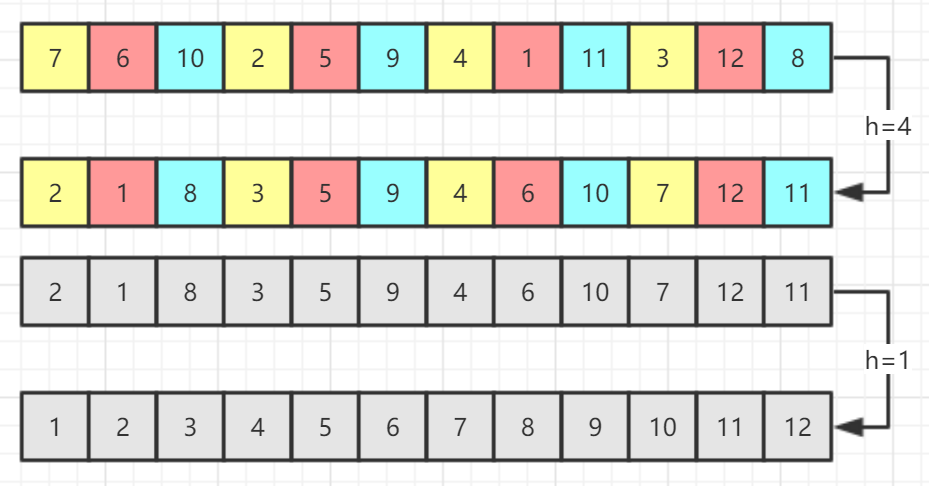
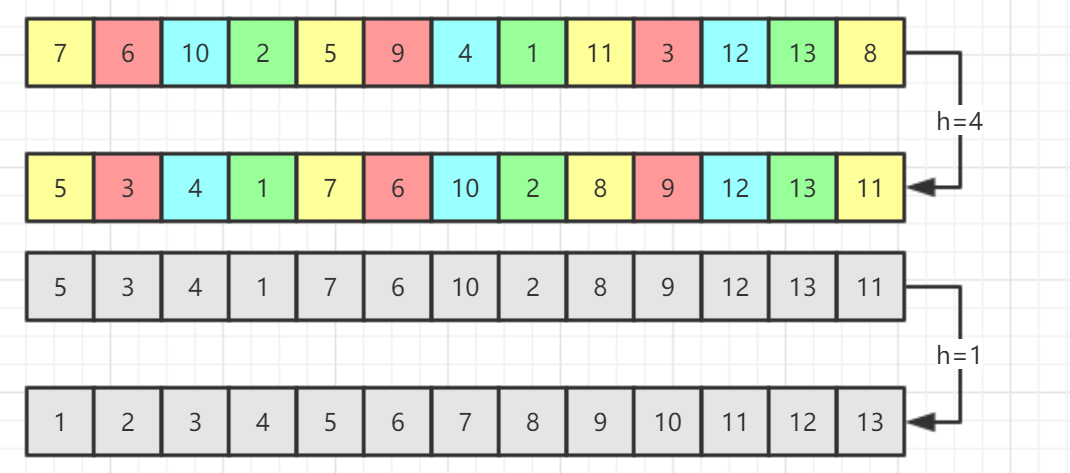
算法

diff --git a/notes/常用算法.md b/notes/常用算法.md
@@ -1,10 +1,13 @@
 # 算法
 
 <!-- GFM-TOC -->
-* [一、排序](#一排序)
+* [一、排序](#排序)
+    * [冒泡排序](#冒泡排序)
     * [选择排序](#选择排序)
 	* [插入排序](#插入排序)
-    * [冒泡排序](#冒泡排序)
+	* [希尔排序](#希尔排序)
+	* [归并排序](#归并排序)
+    
     
 
 
@@ -25,6 +28,50 @@ public class Sort {
     ... sorting functions ...
 }
 ```
+
+## 冒泡排序
+冒泡排序每次从左到右比较数组中相邻的元素，如果相邻元素的顺序错误，则交换相邻元素，
+<br/>
+每趟过后都会使得最大的元素被交换到剩余元素的末位上。
+
+排序过程：
+
+第1趟：遍历整个数组，每次判断相邻元素，顺序错误则交换，则第n-1位置排序完成；
+<br/>
+第2趟：遍历剩下0~n-2数组，每次判断相邻元素，顺序错误则交换，则第n-2,n-1位置排序完成；
+<br/>
+......
+<br/>
+第n-1趟：遍历剩下0,1位置的元素，顺序错误则交换，则数组排序完成；
+
+代码实现：
+<br/>
+```java
+//冒泡排序
+public void bubbleSort(int[] nums) {
+    int N = nums.length;
+    boolean sorted = false;
+    for (int i = N - 1; i > 0 && !sorted; i--) {
+        sorted = true;
+        for (int j = 0; j < i; j++)
+            if (nums[j] > nums[j + 1]) {
+                swap(nums, j, j + 1);
+                sorted = false;
+                System.out.println(Arrays.toString(nums));
+            }
+    }
+}
+```
+
+时间复杂度：
+- 整个排序**最好**需要 **n-1次比较** 和 **0次交换** ，时间复杂度为 **O(n)**，此时数组有序；
+- 整个排序**平均**需要 **n<sup>2</sup>/4次比较** 和 **n<sup>2</sup>/4次交换** ，时间复杂度为 **O(n<sup>2</sup>)**；
+- 整个排序**最坏**需要 **n<sup>2</sup>/2次比较** 和 **n<sup>2</sup>/2次交换** ，时间复杂度为 **O(n<sup>2</sup>)**，此时数组为倒序。
+
+特点：
+- 如果某一趟发现数组已经排序完成，则会及时退出避免无效操作。
+- 交换过程中，值相同的元素的不会进行交换，因此**稳定**。
+- 排序过程中需要辅助变量，空间复杂度为 **O(1)**。
 
 
 ## 选择排序
@@ -87,11 +134,11 @@ public void selectSort(int[] nums) {
 //插入排序
 public void insertionSort(int[] nums) {
     int N = nums.length;
-    for (int i = 1; i < N; i++) {
-        for (int j = i; j > 0 && nums[j-1] > nums[j]; j--)
+    for (int i = 1; i < N; i++)
+        for (int j = i; j > 0 && nums[j-1] > nums[j]; j--) {
             swap(nums, j, j - 1);
-        System.out.println(Arrays.toString(nums));
-    }
+            System.out.println(Arrays.toString(nums));
+        }
 }
 ```
 
@@ -106,51 +153,6 @@ public void insertionSort(int[] nums) {
 - 排序过程中需要辅助变量，空间复杂度为 **O(1)**。
 
 
-## 冒泡排序
-冒泡排序每次从左到右比较数组中相邻的元素，如果相邻元素的顺序错误，则交换相邻元素，
-<br/>
-每趟过后都会使得最大的元素被交换到剩余元素的末位上。
-
-排序过程：
-
-第1趟：遍历整个数组，每次判断相邻元素，顺序错误则交换，则第n-1位置排序完成；
-<br/>
-第2趟：遍历剩下0~n-2数组，每次判断相邻元素，顺序错误则交换，则第n-2,n-1位置排序完成；
-<br/>
-......
-<br/>
-第n-1趟：遍历剩下0,1位置的元素，顺序错误则交换，则数组排序完成；
-
-代码实现：
-<br/>
-```java
-//冒泡排序
-public void bubbleSort(int[] nums) {
-    int N = nums.length;
-    boolean sorted = false;
-    for (int i = N - 1; i > 0 && !sorted; i--) {
-        sorted = true;
-        for (int j = 0; j < i; j++)
-            if (nums[j] > nums[j + 1]) {
-                swap(nums, j, j + 1);
-                sorted = false;
-            }
-        System.out.println(Arrays.toString(nums));
-    }
-}
-```
-
-时间复杂度：
-- 整个排序**最好**需要 **n-1次比较** 和 **0次交换** ，时间复杂度为 **O(n)**，此时数组有序；
-- 整个排序**平均**需要 **n<sup>2</sup>/4次比较** 和 **n<sup>2</sup>/4次交换** ，时间复杂度为 **O(n<sup>2</sup>)**；
-- 整个排序**最坏**需要 **n<sup>2</sup>/2次比较** 和 **n<sup>2</sup>/2次交换** ，时间复杂度为 **O(n<sup>2</sup>)**，此时数组为倒序。
-
-特点：
-- 如果某一趟发现数组已经排序完成，则会及时退出避免无效操作。
-- 交换过程中，值相同的元素的不会进行交换，因此**稳定**。
-- 排序过程中需要辅助变量，空间复杂度为 **O(1)**。
-
-
 ## 希尔排序
 插入排序每次交换相邻的元素，因此每次操作只能让逆序数量减1，因此当数组规模过大时排序速度会非常慢，
 <br/>
@@ -158,5 +160,98 @@ public void bubbleSort(int[] nums) {
 <br/>
 希尔排序通过设置间隔h对数组进行排序，h = ... 40, 13, 4, 1，每次将间隔内的元素看作一个数组进行排序。
 
-<div align="center"> <img src="../pics//shellsort.png" width="350"/> </div><br/>
+<div align="center"> <img src="../pics//shellsort.png" width="450"/> </div><br/>
 
+排序过程：
+
+第1趟：设置间隔h=4，将间隔为4内的元素作为待排序元素，进行插入排序，
+<br/>
+如上图中的[7,2,4,3]元素，[6,5,1,12]元素，[10,9,11,8]元素，间隔都为4，所以当作三个数组进行插入排序；
+<br/>
+第2趟：设置间隔h=1，也就是对整个数组进行插入排序，则数组排序完成；
+
+代码实现：
+<br/>
+```java
+//希尔排序
+public void shellSort(int[] nums) {
+    int N = nums.length;
+    int h = 1;
+
+    while (h < N / 3)
+        h = h * 3 + 1; //h=1,4,13,40, ...
+
+    while (h >= 1) {
+        for (int i = 0; i < h; i++)
+            for (int j = i+h; j < N; j += h)
+                for (int k = j; k-h >= 0 && nums[k-h] > nums[k]; k -= h) {
+                    swap(nums, k, k-h);
+                    System.out.println(Arrays.toString(nums));
+                }
+        h /= 3;
+    }
+}
+```
+
+时间复杂度：
+- 整个排序**最好**时间复杂度为 **O(n)**；
+- 整个排序**平均**时间复杂度为 **O(n<sup>1.3</sup>)**；
+- 整个排序**最坏**时间复杂度为 **O(n<sup>2</sup>)**。
+
+特点：
+- 取间隔排序过程中，有可能改变值相同的元素的先后位置，因此**不稳定**。
+- 排序过程中需要辅助变量，空间复杂度为 **O(1)**。
+
+
+## 归并排序
+归并排序利用了分治的思想，
+<br/>
+二路归并排序，将数组不断分成前后两份，直到每个子数组内元素<=2，
+<br/>
+然后再对每个子数组排序，并两两合并子数组再对合并的数组排序，直到原数组排序完成。
+
+<div align="center"> <img src="../pics//mergesort.png" width="450"/> </div><br/>
+
+代码实现：
+<br/>
+```java
+    //归并排序
+    public void mergeSort(int[] nums) {
+        int N = nums.length;
+        mSort(nums, 0, N-1);
+    }
+    private void mSort(int[] nums, int l, int h) {
+        if (h <= l) return;
+        int m = l + (h - l) / 2;
+        mSort(nums, l, m);
+        mSort(nums, m+1, h);
+        merge(nums, l, m, h);
+    }
+    private void merge(int[] nums, int l, int m, int h) {
+        int[] tmp = new int[nums.length];
+        System.arraycopy(nums, l, tmp, l, h - l + 1);
+        
+        int i = l, j = m + 1;
+        for (int k = l; k <= h; k++) {
+            if (i > m)
+                nums[k] = tmp[j++];
+            else if (j > h)
+                nums[k] = tmp[i++];
+            else if (tmp[i] <= tmp[j])
+                nums[k] = tmp[i++];
+            else
+                nums[k] = tmp[j++];
+            System.out.println(Arrays.toString(nums));
+        }
+    }
+```
+
+时间复杂度：
+- 整个排序**最好**时间复杂度为 **O(nlogn)**；
+- 整个排序**平均**时间复杂度为 **O(nlogn)**；
+- 整个排序**最坏**时间复杂度为 **O(nlogn)**。
+
+特点：
+- 有点像选择排序，所需时间与输入数组状态无关。
+- 合并过程中，保留了相同的元素的先后位置，因此**稳定**。
+- 排序过程中需要复制数组，空间复杂度为 **O(n)**。
